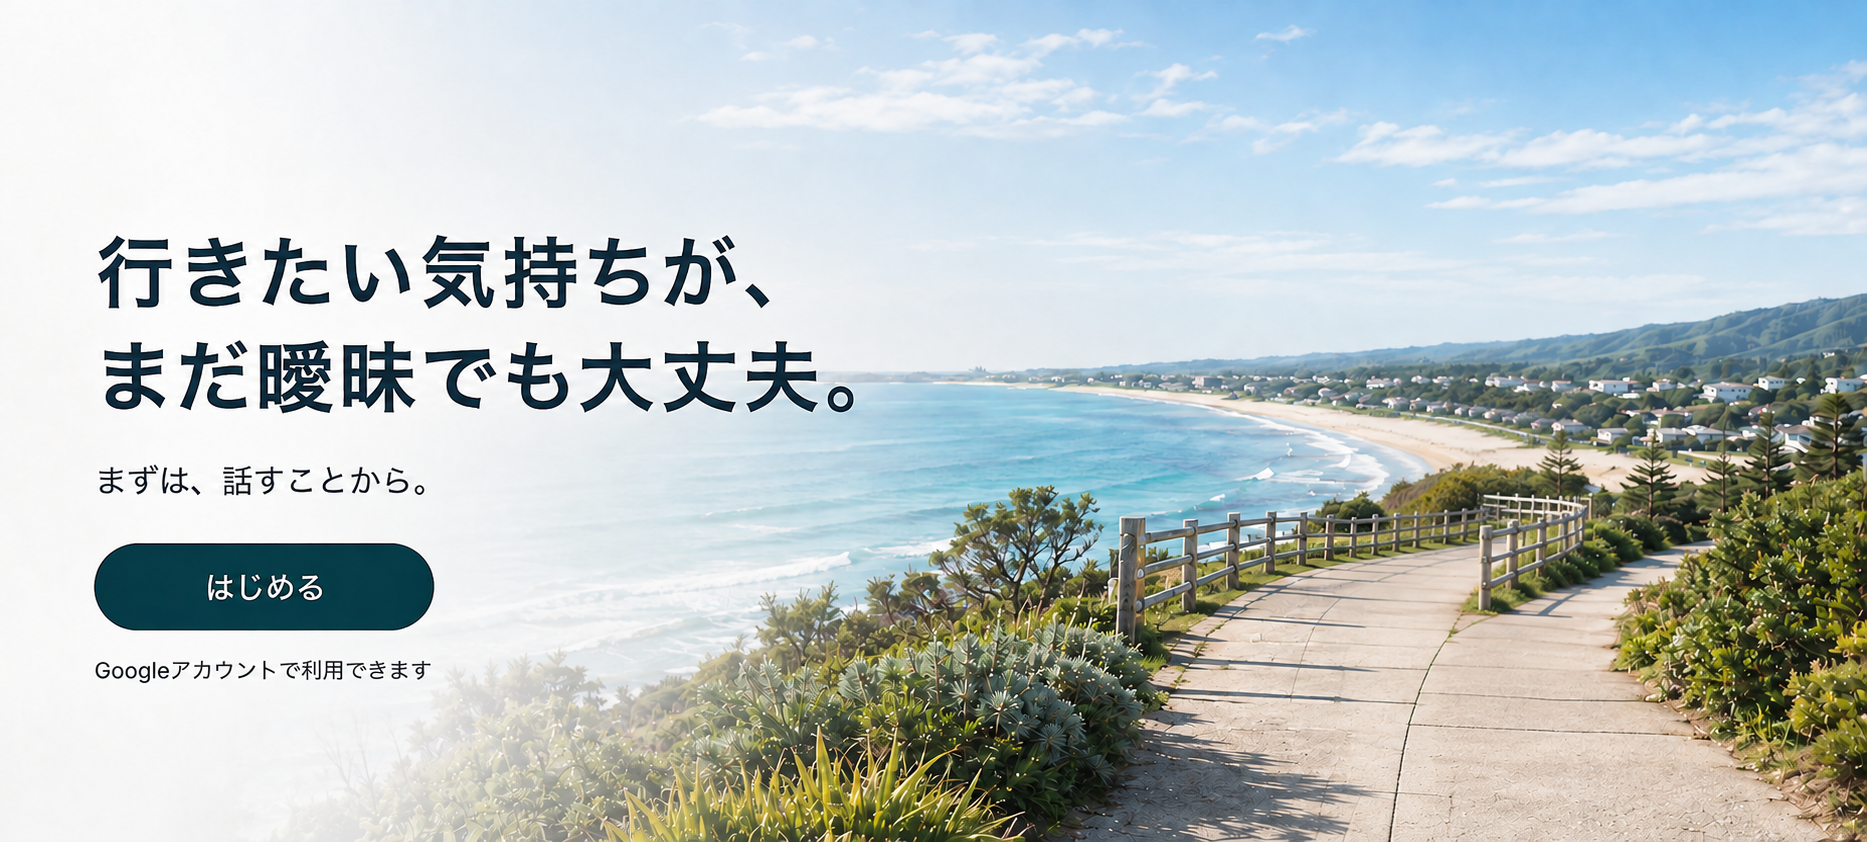
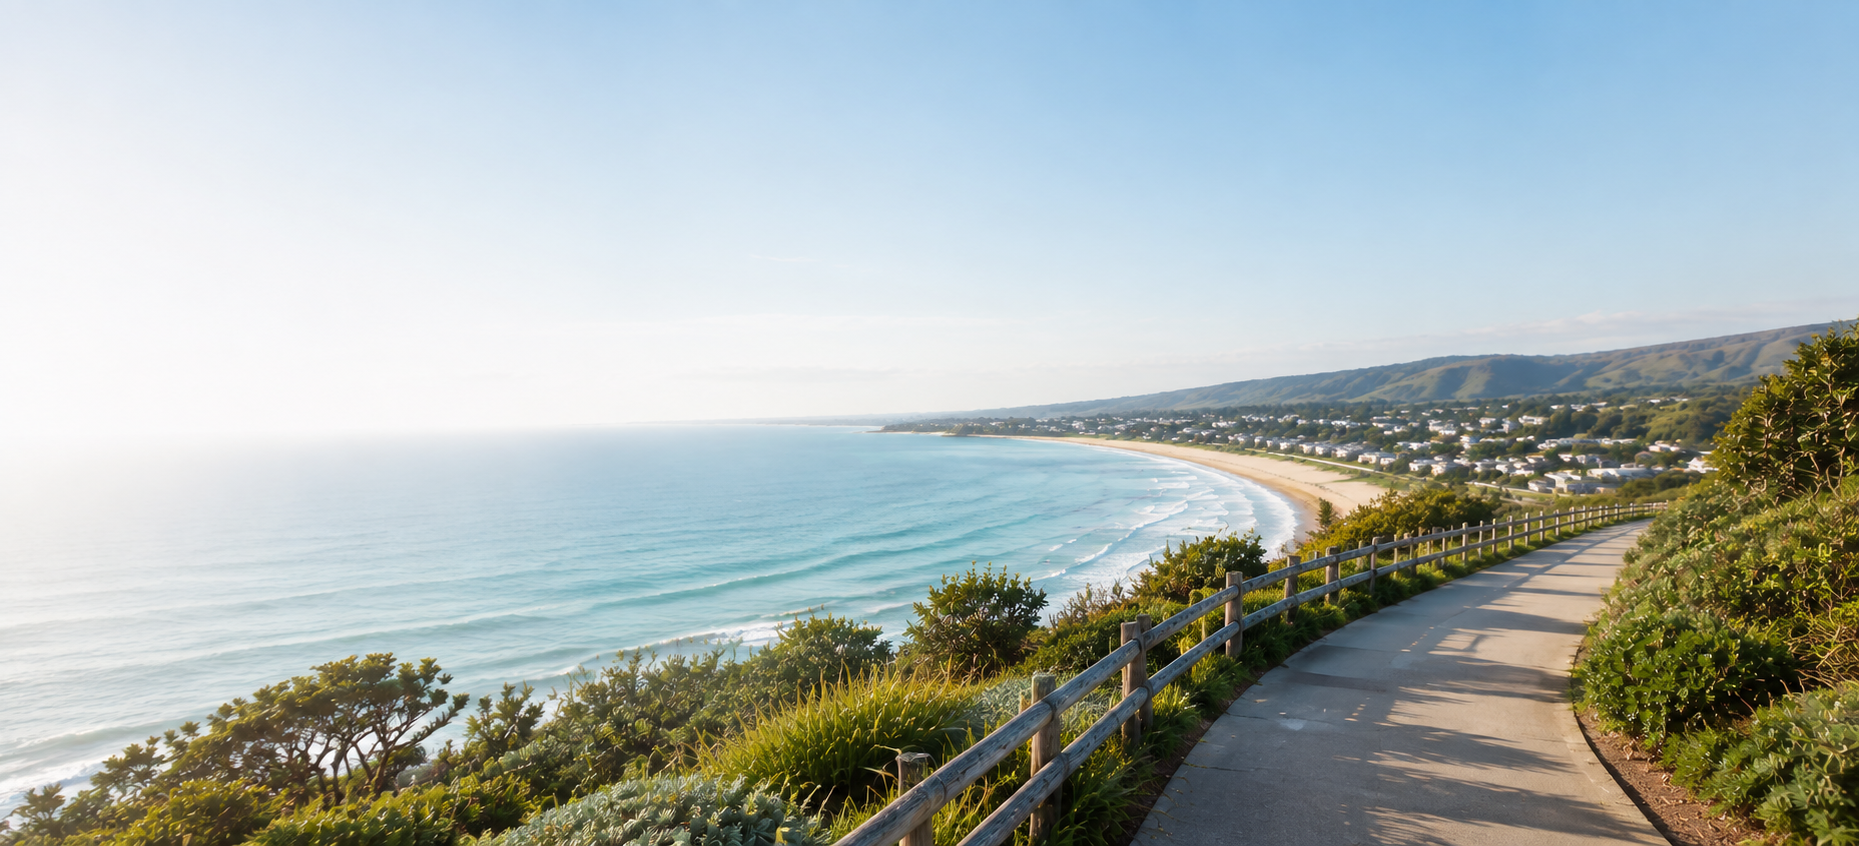
All checks pass. Summary:
public/landing/uncertain-hero-section.png を確認したところ、今回は文字が焼き込まれていないクリーンな写真（1859×846px）になっていました。これに差し替えました。

変更内容

components/landing/ClosingCtaSection.tsx: 背景画像のsrcを暫定の切り出し画像（closing-cta-coastal-path.png）から/landing/uncertain-hero-section.pngに変更
object-positionを"65% 55%"→"68% 55%"に微調整（新しい画像は元画像全体をそのまま使うため、構図に合わせて再調整。Desktopは横長containerのため画像はほぼ全幅表示、Mobileは縦長containerのためxの値だけがどの横位置を見せるかを左右する）
不要になった暫定ファイルpublic/landing/closing-cta-coastal-path.pngを削除（他に参照箇所がないことを確認済み）
高さ（min-h-*）・gradient・max-width・padding・文言はすべて前回の状態のまま無変更
技術確認: tsc・lint（新規なし、既存のChat.tsx/EmbedCloseButton.tsxの問題のみ）・buildすべて成功。curlでHero/How It Worksへの無影響、/login・/mypage・/widget・/worksheetのステータス正常も確認済みです。

ブラウザでの目視確認はできていないため、実際の見え方（クロップ位置・可読性のバランス）は実機での確認をおすすめします。変更は未コミット・未pushです。

diff --git a/components/landing/ClosingCtaSection.tsx b/components/landing/ClosingCtaSection.tsx
@@ -6,20 +6,24 @@ import Link from "next/link";
  * 共有された参考モックアップ（海沿いの遊歩道・爽やかなトーン）を目指し、背景画像＋左寄せ
  * テキストという構成に変更している。
  *
- * 背景画像 public/landing/closing-cta-coastal-path.png は、共有された参考モックアップ画像
- * （public/landing/uncertain-hero-section.png）そのものではない。共有されたモックアップは
- * 見出し・サブコピー・CTA・補足文がすでに画像に焼き込まれた完成デザイン参考のため、その
- * まま背景に使うとHTML側の本物のテキストと二重に表示されてしまう。そのため、モックアップの
- * うち文字が一切含まれない右側46%以降（元画像1867pxの859px以降、1009×842px）だけを
- * 切り出し、実際に背景として使えるクリーンな写真として保存した（海岸線と木製フェンスの
- * 遊歩道はどちらもこの範囲に収まっている）。
+ * 背景画像 public/landing/uncertain-hero-section.png は、文字が一切焼き込まれていない
+ * クリーンな海沿いの写真（1859×846px、アスペクト比約2.2:1）。旧バージョンは見出し等が
+ * 画像に焼き込まれた完成デザイン参考のモックアップだったため、実装時にHTML側の本物の
+ * テキストと二重表示になる問題があり、右側だけを切り出した暫定画像
+ * （closing-cta-coastal-path.png）で代替していたが、クリーンな写真に差し替えられたため
+ * その暫定ファイルは削除し、この画像をそのまま使用している。
  *
  * HeroSectionとは異なり、このsectionにはLandingHeaderのような「Desktopだけ別の要素」が
  * 無く、左テキスト＋右へ抜ける画像という同じ構図がMobile/Desktop共通で成立するため、
  * breakpoint別に別JSXブロックへ分けず、同じ構造をユーティリティクラスの出し分けだけで
- * 表現している。object-positionは単一の値（65% 55%）で妥協しており、Mobileの縦長
- * container・Desktopの横長containerのどちらでも海岸線と遊歩道がある程度見えることを
- * 優先している。
+ * 表現している。object-positionは単一の値（68% 55%）。画像のアスペクト比（2.2:1）が
+ * Desktopのcontainer（横長、例: 1280×520で比率2.46）より縦長寄りのため、Desktopでは
+ * containerの横幅に画像の横幅が一致し、ほぼ全幅（＝海岸線から遊歩道まで）がそのまま
+ * 見える（上下がわずかにcropされるだけ）。逆にMobileのcontainer（縦長）では画像の縦が
+ * containerの高さに一致するため上下方向のcropは発生せず、横方向だけが大きくcropされる。
+ * そのためxは「Mobileでどの横位置を見せるか」、yは「Desktopでどの縦位置を見せるか」を
+ * それぞれ独立に制御しており、x=68%はMobileで遊歩道・ビーチのカーブが見える位置、
+ * y=55%はDesktopで空の余白を取りすぎず遊歩道・ビーチが収まる位置として選んでいる。
  * 文字が乗る左側の可読性は、bg-gradient-to-rの白グラデーション1枚（from-white/90
  * via-white/60 to-transparent）で確保し、白ベタで画像全体を覆うことはしていない。
  * テキスト列の幅をmax-w-[260px]（Mobile）〜max-w-xl（lg）に絞っているのは、
@@ -32,12 +36,12 @@ export default function ClosingCtaSection() {
     <section className="relative overflow-hidden border-t border-worksheet-border bg-worksheet-sage/25">
       <div className="absolute inset-0 z-0">
         <Image
-          src="/landing/closing-cta-coastal-path.png"
+          src="/landing/uncertain-hero-section.png"
           alt=""
           fill
           sizes="100vw"
           className="object-cover"
-          style={{ objectPosition: "65% 55%" }}
+          style={{ objectPosition: "68% 55%" }}
         />
       </div>
 
